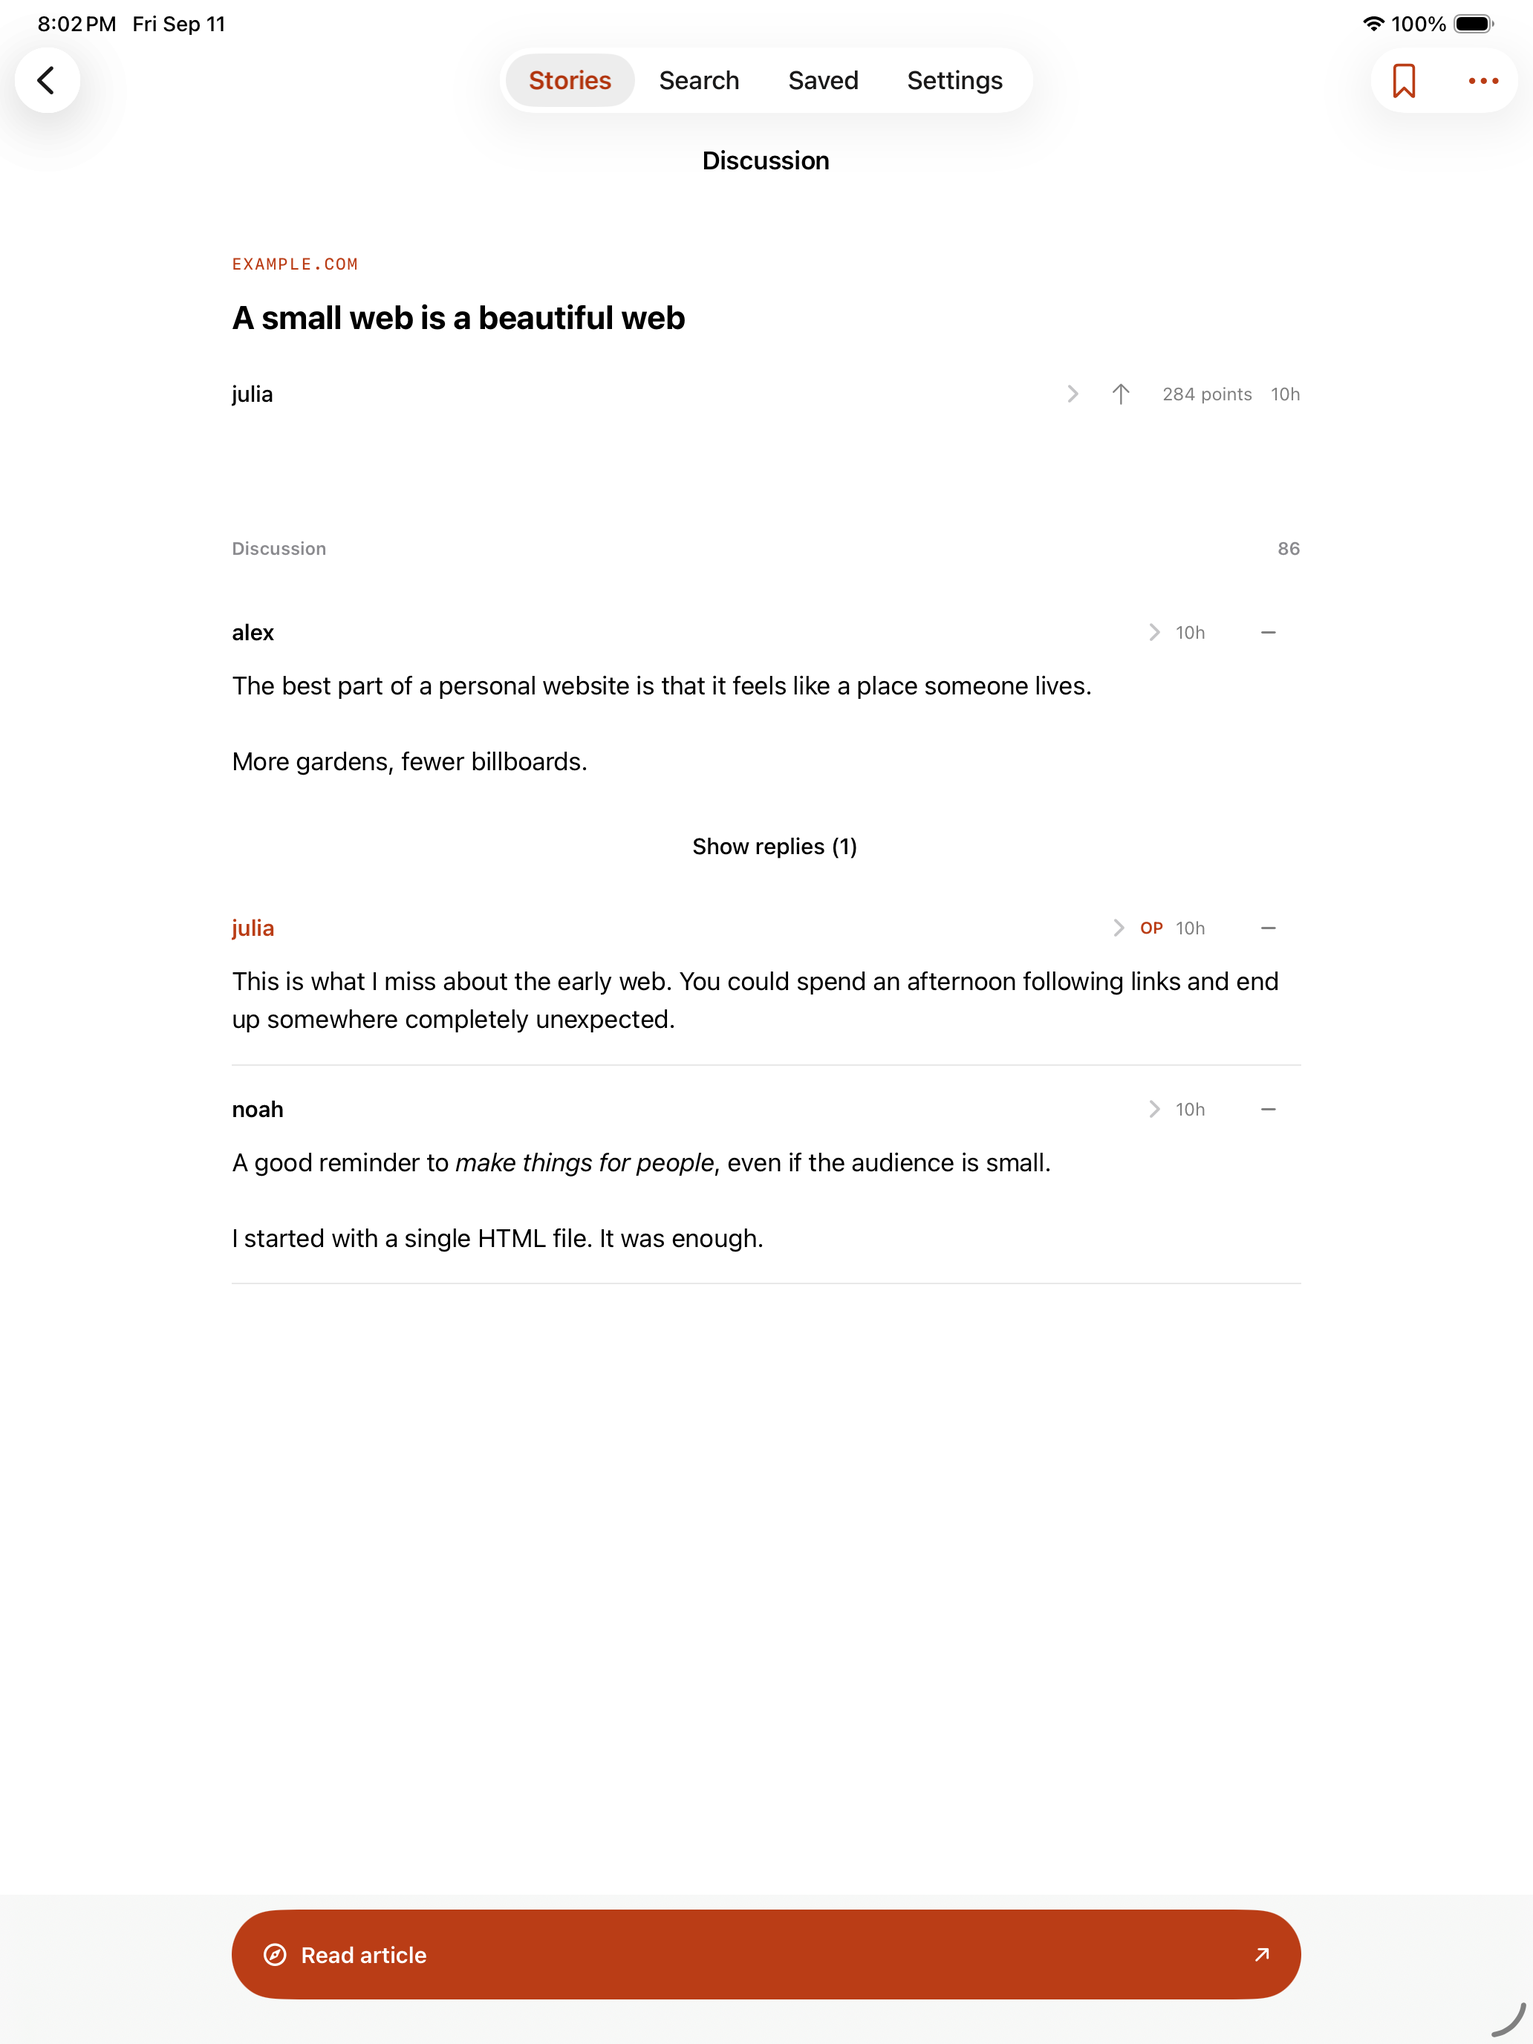
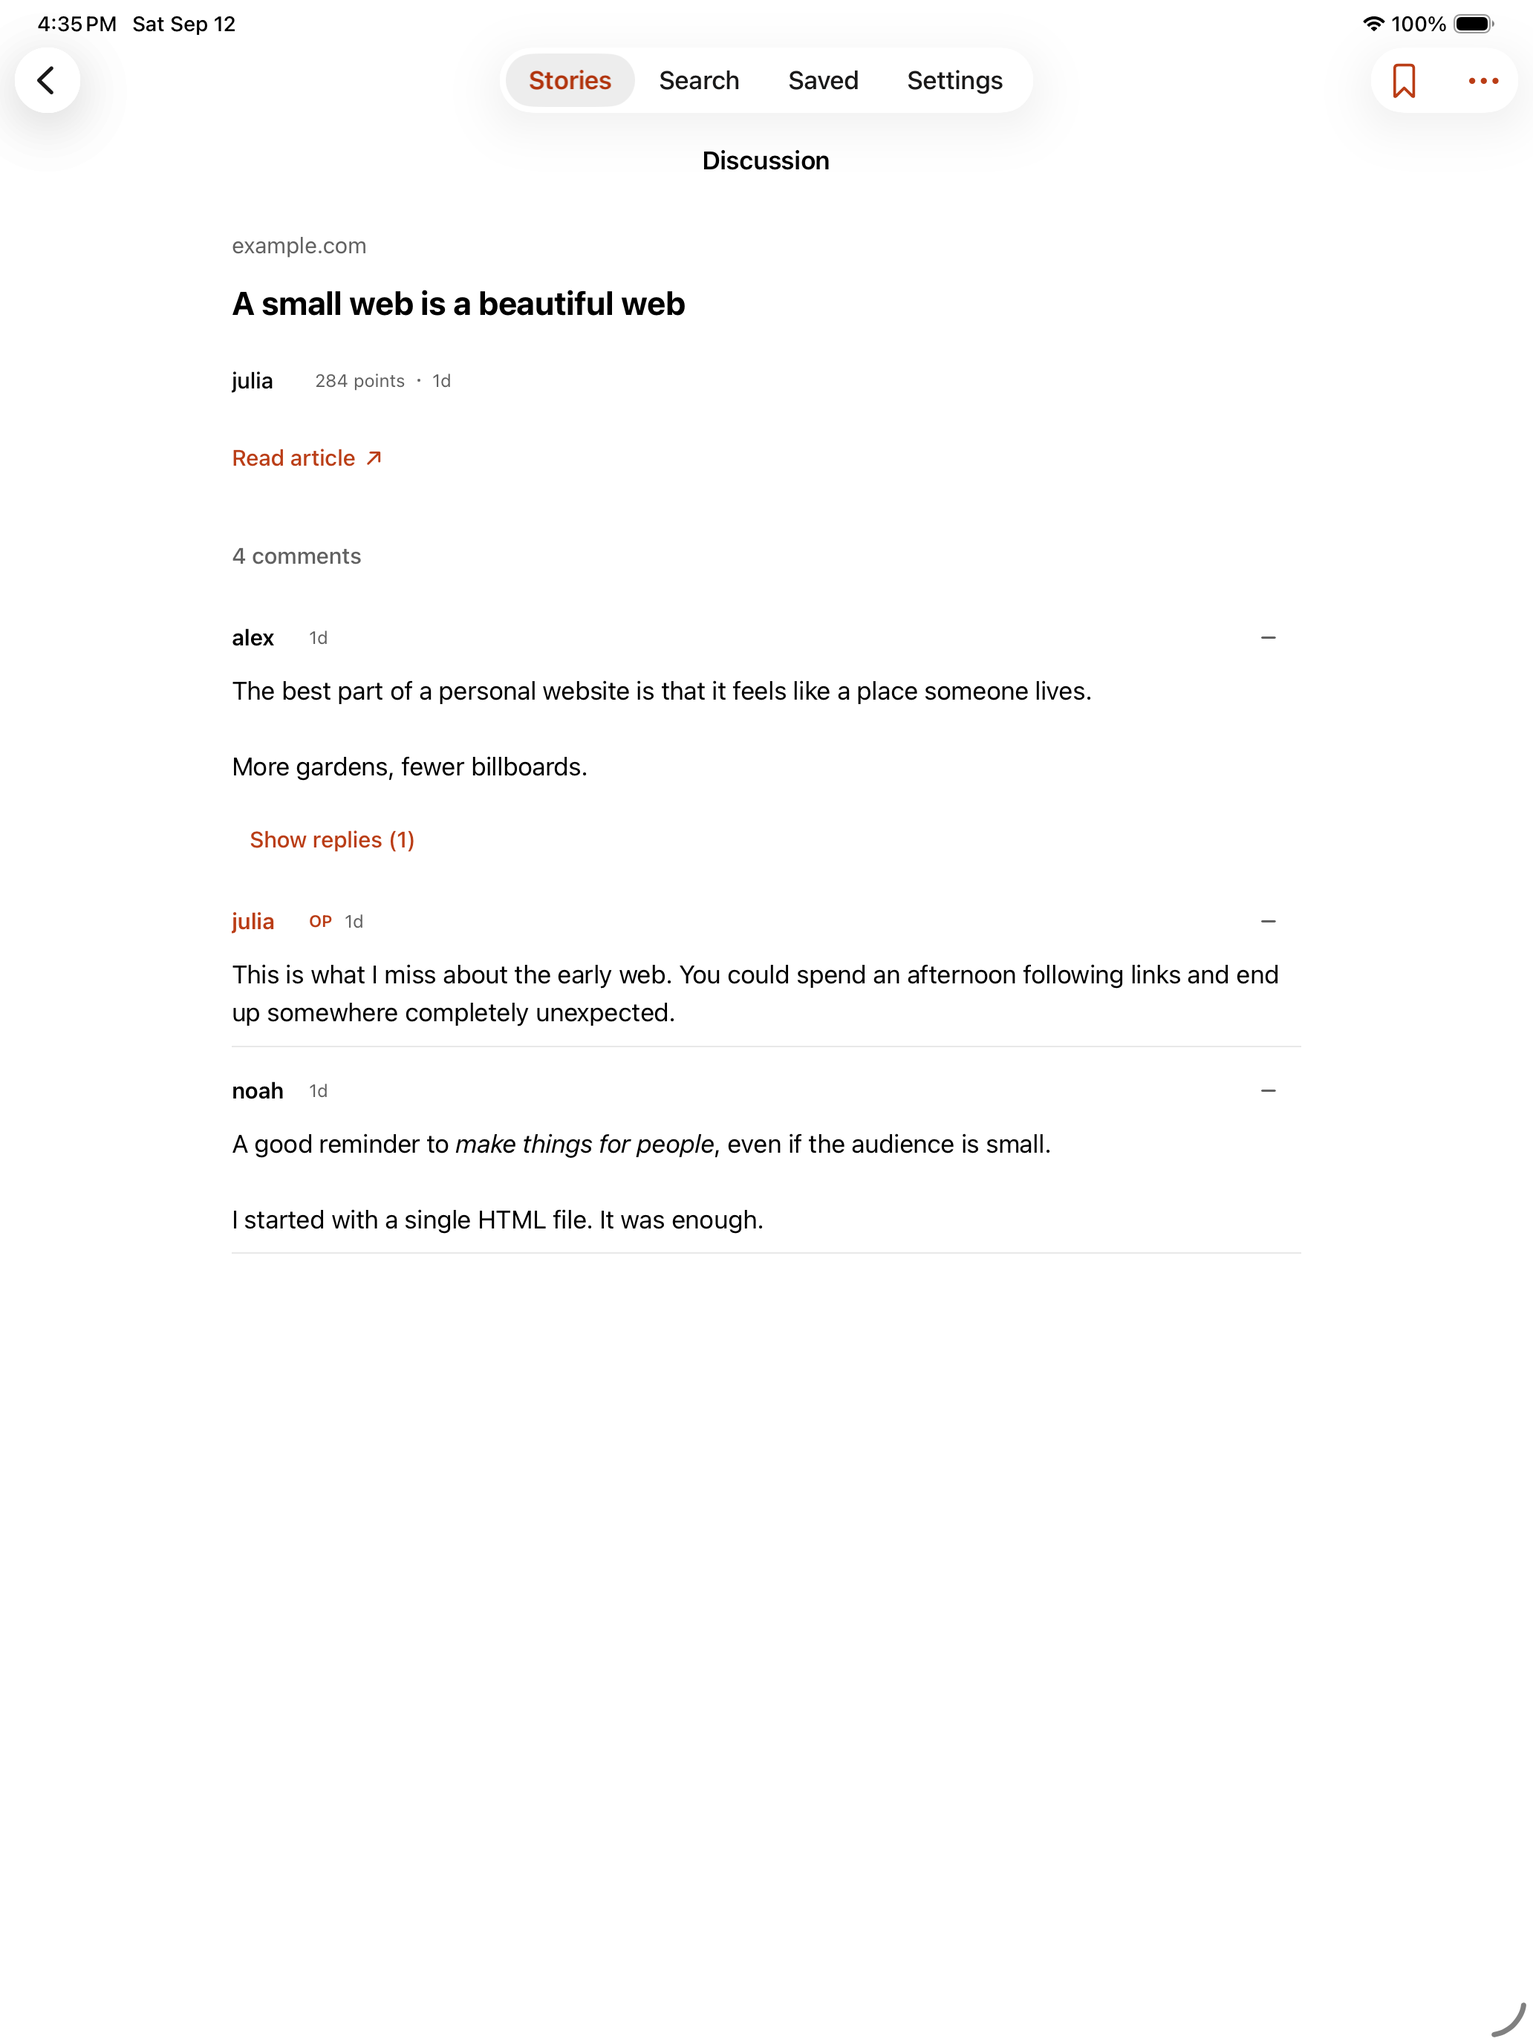
Document validated app review and simulator gallery [skip ci]

diff --git a/Release/VALIDATION.md b/Release/VALIDATION.md
@@ -1,41 +1,39 @@
 # Validation record
 
-September 11, 2026. Native build and simulator validation passed. This is not App Store approval or a claim of complete real-device testing.
+September 12, 2026. Native build and simulator validation passed for the reading-experience refinement. Signing and physical-device review remain.
 
 ## Verified native run
 
-[GitHub Actions run 6](https://github.com/yaportmax/ember-hacker-news/actions/runs/34642526701) validated commit `a5f5550b05938264df6cee2b526bccaa0800aafa` using Xcode 26.6 (17F113) on a standard `macos-26` runner.
+[GitHub Actions run 34704411398](https://github.com/yaportmax/ember-hacker-news/actions/runs/34704411398) validated commit `0d43f594fe682877b809b3f40c1cee6761144ec5` using Xcode 26.6 · Build version 17F113 on standard `macos-26` runners.
 
 | Check | Result |
 | --- | --- |
 | Static project, privacy manifest, assets | Passed |
-| Portable deterministic unit tests | 29 passed, zero failures |
-| iPhone simulator unit tests | 29 passed, zero failures |
-| iPhone 17 Pro UI tests | All 6 passed |
-| iPad Pro 13-inch (M5) UI tests | All 6 passed |
+| Portable deterministic core tests | 29 passed, zero failures |
+| Live API integration test | Passed: all feeds, story, comments, profile, search |
+| iPhone simulator unit tests | 29 passed, zero failures; optional live test skipped here |
+| iPhone 17 Pro UI tests | All 13 passed |
+| iPad Pro 13-inch (M5) UI tests | All 13 passed |
 | Release build for physical iOS devices | Passed, unsigned |
-| Real simulator screenshot export | Passed |
+| Simulator screenshot export | 39 captures per device |
 
-The optional live API test is skipped in default CI. It passed separately during initial authoring against HN and Algolia; that earlier result is not part of this native run. Repeated executions across platforms are not additional distinct tests.
+The iPad job was retried on unchanged source after its first attempt timed out while starting the native Safari service. The successful iPhone and core jobs were retained. The retry passed; physical-device browser startup remains part of the TestFlight review.
 
-UI tests cover bookmark restoration, search and empty results, offline relaunch, comment collapse/replies, dark-theme accessibility, and screenshots. Contrast checks exclude content obscured by the iPhone bottom floating tab bar; fully visible content and iPad top-tab layouts remain audited. Screenshots use deterministic fixtures, while normal app launches load live data.
+Repeated test executions across platforms are not additional distinct tests. The live service test is explicitly enabled in the core CI job; it remains opt-in for local package tests.
 
-[The unchanged CI-generated validation receipt](Evidence/github-validation.json) records the source fingerprint, toolchain, and devices. It was matched against the local source before this documentation commit. Documentation and screenshot additions do not change the validated app source. The receipt is historical evidence, not a signing credential.
+UI checks cover navigation, feeds, article/title/menu browser entry and return, bookmarks across relaunch, search and empty results, offline relaunch, comment collapse/replies, profiles, reporting and unblocking, jobs, polls, compact rows, reading preferences, storage confirmation, dark-theme accessibility, large text, and rotation captures.
 
-## Fixes found through simulator testing
+Contrast checks exclude content obscured by the iPhone bottom floating tab bar; fully visible content and iPad top-tab layouts remain audited. A second, documented exception covers only the two reviewed empty native search prompts in dark mode on iOS 26: their captured foreground/background colors measured 5.93:1 despite the automated warning. Entered search text remains in scope. See the design review for the inspected captures and calculation. Decorative separators, source labels, and author touch areas were corrected after inspecting actual failure captures. UI-test preferences reset normally instead of being locked through launch arguments, and switch changes are asserted explicitly.
 
-- Increased rank size and contrast, and strengthened secondary story text in both themes.
-- Removed a toolbar wordmark that iOS clipped.
-- Updated UI tests for iPad floating tab controls and search focus after clearing text.
+[The unchanged CI-generated receipt](Evidence/github-validation.json) was matched against the local source fingerprint before this documentation commit. Documentation and screenshot additions do not change the validated app source. The receipt is evidence of testing, not a signing credential.
 
-[View the actual app screenshots](../docs/SCREENSHOTS.md). The gallery comes from run 5; the only subsequent source change was to the search test's focus handling.
+[View all actual app screenshots](../docs/SCREENSHOTS.md) and the [design review](../docs/review/AUDIT.md). The gallery is exported directly from this run using deterministic fixtures; normal app launches load live data.
 
 ## Remaining publishing work
 
-- Set the real Apple Developer team and a registered bundle ID; configure signing.
+- Configure the real Apple Developer team and registered bundle ID.
 - Host support and privacy pages with the publisher's contact details.
-- Produce a signed archive and verify it through TestFlight on physical devices.
-- Review VoiceOver, larger Dynamic Type sizes, rotation, iPad multitasking, live articles, and long discussions on devices.
+- Produce a signed archive and review the app through TestFlight on physical devices, including VoiceOver, live article behavior, long discussions, and iPad multitasking.
 - Complete App Store metadata, age rating, privacy disclosures, screenshot selection, and Apple review.
 
-`scripts/release.py validate` writes a release receipt only after the full native gate passes. Changing source or publisher configuration invalidates that receipt. `archive` requires current validation and completed publisher configuration; it never uploads automatically.
+`scripts/release.py validate` writes a receipt only after its native gate passes. Source or publisher configuration changes invalidate that receipt. `archive` requires current validation and completed publisher configuration; it never uploads automatically.

diff --git a/docs/SCREENSHOTS.md b/docs/SCREENSHOTS.md
@@ -1,12 +1,47 @@
 # Simulator screenshots
 
-Actual SwiftUI app captures from [validation run 5](https://github.com/yaportmax/ember-hacker-news/actions/runs/34641126933), September 11, 2026. Screens use synthetic test stories. No generated mockups or retouching.
+Actual SwiftUI app captures from [validation run 34704411398](https://github.com/yaportmax/ember-hacker-news/actions/runs/34704411398), September 12, 2026. Each device has 39 captured views. Screens use synthetic test stories; normal launches load live Hacker News data.
 
-The subsequent change fixes test keyboard focus only; the app UI is unchanged.
+[Reading experience review](review/AUDIT.md) includes findings and before captures.
 
-| Screen | iPhone | iPad |
+| Screen | iPhone 17 Pro | iPad Pro 13-inch (M5) |
 | --- | --- | --- |
-| Stories, light | [View](screenshots/iphone-01-stories-light.png) | [View](screenshots/ipad-01-stories-light.png) |
-| Discussion | [View](screenshots/iphone-02-discussion-light.png) | [View](screenshots/ipad-02-discussion-light.png) |
-| Saved | [View](screenshots/iphone-03-saved-light.png) | [View](screenshots/ipad-03-saved-light.png) |
-| Stories, dark | [View](screenshots/iphone-04-stories-dark.png) | [View](screenshots/ipad-04-stories-dark.png) |
+| Stories Light | [View](screenshots/iphone-01-stories-light.png) | [View](screenshots/ipad-01-stories-light.png) |
+| Discussion Light | [View](screenshots/iphone-02-discussion-light.png) | [View](screenshots/ipad-02-discussion-light.png) |
+| Saved Light | [View](screenshots/iphone-03-saved-light.png) | [View](screenshots/ipad-03-saved-light.png) |
+| Stories Dark | [View](screenshots/iphone-04-stories-dark.png) | [View](screenshots/ipad-04-stories-dark.png) |
+| Stories | [View](screenshots/iphone-audit-01-stories.png) | [View](screenshots/ipad-audit-01-stories.png) |
+| Feed Menu | [View](screenshots/iphone-audit-02-feed-menu.png) | [View](screenshots/ipad-audit-02-feed-menu.png) |
+| Text Post | [View](screenshots/iphone-audit-03-text-post.png) | [View](screenshots/ipad-audit-03-text-post.png) |
+| Search Empty | [View](screenshots/iphone-audit-04-search-empty.png) | [View](screenshots/ipad-audit-04-search-empty.png) |
+| Search Results | [View](screenshots/iphone-audit-05-search-results.png) | [View](screenshots/ipad-audit-05-search-results.png) |
+| Search Filters | [View](screenshots/iphone-audit-06-search-filters.png) | [View](screenshots/ipad-audit-06-search-filters.png) |
+| Saved Empty | [View](screenshots/iphone-audit-07-saved-empty.png) | [View](screenshots/ipad-audit-07-saved-empty.png) |
+| History Empty | [View](screenshots/iphone-audit-08-history-empty.png) | [View](screenshots/ipad-audit-08-history-empty.png) |
+| Settings | [View](screenshots/iphone-audit-09-settings.png) | [View](screenshots/ipad-audit-09-settings.png) |
+| Settings Lower | [View](screenshots/iphone-audit-10-settings-lower.png) | [View](screenshots/ipad-audit-10-settings-lower.png) |
+| Help | [View](screenshots/iphone-audit-11-help.png) | [View](screenshots/ipad-audit-11-help.png) |
+| Privacy | [View](screenshots/iphone-audit-12-privacy.png) | [View](screenshots/ipad-audit-12-privacy.png) |
+| Discussion | [View](screenshots/iphone-audit-13-discussion.png) | [View](screenshots/ipad-audit-13-discussion.png) |
+| Replies | [View](screenshots/iphone-audit-14-replies.png) | [View](screenshots/ipad-audit-14-replies.png) |
+| Offline Empty | [View](screenshots/iphone-audit-15-offline-empty.png) | [View](screenshots/ipad-audit-15-offline-empty.png) |
+| Large Text Feed | [View](screenshots/iphone-audit-16-large-text-feed.png) | [View](screenshots/ipad-audit-16-large-text-feed.png) |
+| Large Text Discussion | [View](screenshots/iphone-audit-17-large-text-discussion.png) | [View](screenshots/ipad-audit-17-large-text-discussion.png) |
+| Large Text Comments | [View](screenshots/iphone-audit-18-large-text-comments.png) | [View](screenshots/ipad-audit-18-large-text-comments.png) |
+| Reading Preferences | [View](screenshots/iphone-audit-19-reading-preferences.png) | [View](screenshots/ipad-audit-19-reading-preferences.png) |
+| Hidden Content | [View](screenshots/iphone-audit-20-hidden-content.png) | [View](screenshots/ipad-audit-20-hidden-content.png) |
+| Blocked Empty | [View](screenshots/iphone-audit-21-blocked-empty.png) | [View](screenshots/ipad-audit-21-blocked-empty.png) |
+| Storage | [View](screenshots/iphone-audit-22-storage.png) | [View](screenshots/ipad-audit-22-storage.png) |
+| Profile | [View](screenshots/iphone-audit-23-profile.png) | [View](screenshots/ipad-audit-23-profile.png) |
+| Job | [View](screenshots/iphone-audit-24-job.png) | [View](screenshots/ipad-audit-24-job.png) |
+| Discussion Dark | [View](screenshots/iphone-audit-25-discussion-dark.png) | [View](screenshots/ipad-audit-25-discussion-dark.png) |
+| Clear History Confirmation | [View](screenshots/iphone-audit-26-clear-history-confirmation.png) | [View](screenshots/ipad-audit-26-clear-history-confirmation.png) |
+| Report | [View](screenshots/iphone-audit-27-report.png) | [View](screenshots/ipad-audit-27-report.png) |
+| Blocked User | [View](screenshots/iphone-audit-28-blocked-user.png) | [View](screenshots/ipad-audit-28-blocked-user.png) |
+| Poll | [View](screenshots/iphone-audit-29-poll.png) | [View](screenshots/ipad-audit-29-poll.png) |
+| Compact Stories | [View](screenshots/iphone-audit-30-compact-stories.png) | [View](screenshots/ipad-audit-30-compact-stories.png) |
+| Offline Cached | [View](screenshots/iphone-audit-31-offline-cached.png) | [View](screenshots/ipad-audit-31-offline-cached.png) |
+| No Results | [View](screenshots/iphone-audit-32-no-results.png) | [View](screenshots/ipad-audit-32-no-results.png) |
+| Landscape Stories | [View](screenshots/iphone-audit-33-landscape-stories.png) | [View](screenshots/ipad-audit-33-landscape-stories.png) |
+| Privacy Lower | [View](screenshots/iphone-audit-34-privacy-lower.png) | [View](screenshots/ipad-audit-34-privacy-lower.png) |
+| Acknowledgments | [View](screenshots/iphone-audit-35-acknowledgments.png) | [View](screenshots/ipad-audit-35-acknowledgments.png) |

diff --git a/docs/review/AUDIT.md b/docs/review/AUDIT.md
@@ -39,12 +39,14 @@ The final capture review also found that app-window screenshots were cropped dur
 
 [Inspected native search prompt](before/native-search-prompt.png) · [Inspected saved-search prompt](before/native-saved-search-prompt.png)
 
-## Before captures
+## Before and after
 
-- [Story hierarchy](before/audit-01-stories.png)
-- [Search results with missing filters](before/audit-05-search-results.png)
-- [Largest text: fixed article button](before/audit-17-large-text-discussion.png)
-- [Largest text: comment obstruction](before/audit-18-large-text-comments.png)
+| Review | Before | After |
+| --- | --- | --- |
+| Story hierarchy | [View](before/audit-01-stories.png) | [View](../screenshots/iphone-audit-01-stories.png) |
+| Search filters with a query | [View](before/audit-05-search-results.png) | [View](../screenshots/iphone-audit-05-search-results.png) |
+| Largest text: article action | [View](before/audit-17-large-text-discussion.png) | [View](../screenshots/iphone-audit-17-large-text-discussion.png) |
+| Largest text: reading comments | [View](before/audit-18-large-text-comments.png) | [View](../screenshots/iphone-audit-18-large-text-comments.png) |
 
 ## Walkthrough scope
 
@@ -54,7 +56,7 @@ Captures use explicit debug fixtures, including consistent counts for discussion
 
 ## Validation status
 
-The baseline run reproduced a real search-controls failure. This document is an active review record until the final native gate and screenshot review are recorded here.
+The baseline run reproduced a real search-controls failure. [Final run 34704411398](https://github.com/yaportmax/ember-hacker-news/actions/runs/34704411398) passed all 30 core tests, including the live API check, all 13 UI tests on each device, and the unsigned Release build. [The final gallery](../SCREENSHOTS.md) contains 39 direct simulator captures per device; the reviewed source and validation receipt match.
 
 During the review, UI-test launch arguments were also replaced with resettable test preferences: fixed command-line defaults had prevented tests from actually changing a feed or density preference. The release app never uses this test setup. Failure recordings also exposed tests tapping the label area of a switch and the underlying storage row instead of the confirmation. Tests now target the switch thumb, assert its value, and identify the confirmation explicitly.
 

diff --git a/README.md b/README.md
@@ -2,7 +2,7 @@
 
 A minimal native Hacker News reader for iPhone and iPad. Swift 6, SwiftUI, iOS 17+. No packages, backend, advertisements, or analytics.
 
-**Status:** The current reading-experience refinement is under native validation. The [previous native validation passed](https://github.com/yaportmax/ember-hacker-news/actions/runs/34642526701): 29 deterministic unit tests, all six UI tests on iPhone and iPad, and an unsigned Release device build with Xcode 26.6. Signing, TestFlight, and real-device review remain. See `Release/VALIDATION.md` for evidence.
+**Status:** [native validation passed](https://github.com/yaportmax/ember-hacker-news/actions/runs/34704411398): 29 deterministic core tests plus the live API test, all 13 UI tests on each of iPhone and iPad, and an unsigned Release device build with Xcode 26.6. Signing, TestFlight, and real-device review remain. See `Release/VALIDATION.md` for evidence.
 
 ## Actual app screenshots
 
